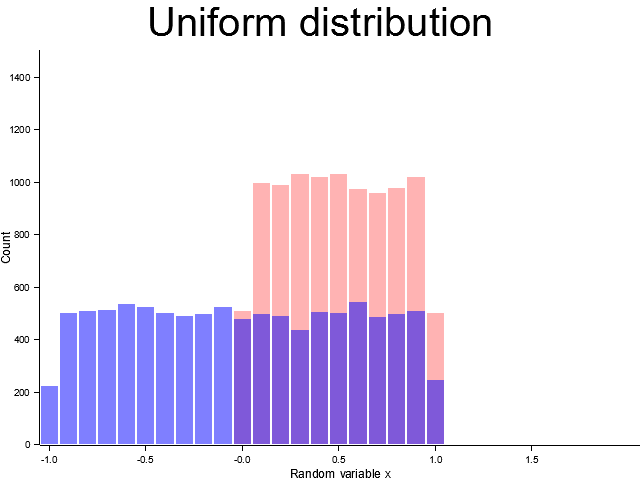
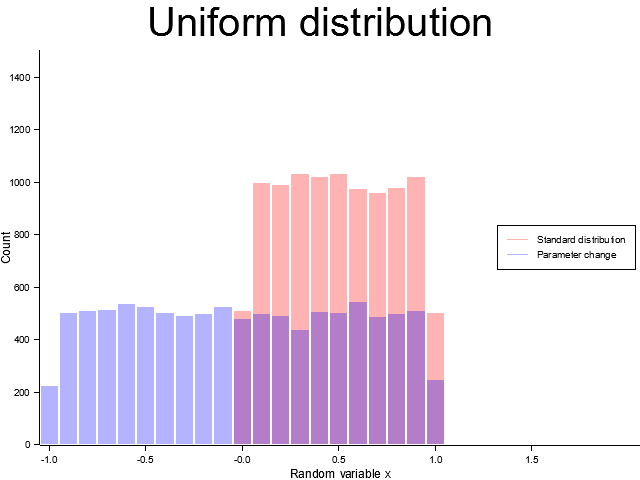
0.2.0d (使用例) 一様分布と正規分布の修正

Changed region(s): [[0.0625, 0.625, 0.7188, 0.9375], [0.7812, 0.4688, 1.0, 0.5625]]

diff --git a/examples/normal.rs b/examples/normal.rs
@@ -35,6 +35,7 @@ fn main() -> Result<(), Box<dyn std::error::Error>> {
     let mut generator = rand_simple::Normal::new([1192u32, 765u32]);
 
     // 標準分布
+    println!("Initial state\n{}\n", generator);
     let mut vec = Vec::<f64>::new();
     for _ in 0..QUANTITY {
         vec.push(generator.sample());
@@ -47,12 +48,15 @@ fn main() -> Result<(), Box<dyn std::error::Error>> {
                 .margin(1)
                 .data(data.iter().map(|x: &f64| (*x, 1))),
         )
-        .unwrap();
+        .unwrap()
+        .label("Standard distribution")
+        .legend(|(x, y)| PathElement::new(vec![(x, y), (x + 20, y)], &RED.mix(0.3)));
 
     // パラメータ変更
     let mean: f64 = -3f64;
     let variance: f64 = 2f64;
     let _: Result<(f64, f64), &str> = generator.try_set_params(mean, variance);
+    println!("Parameter change\n{}", generator);
     let mut vec = Vec::<f64>::new();
     for _ in 0..QUANTITY {
         vec.push(generator.sample());
@@ -61,10 +65,20 @@ fn main() -> Result<(), Box<dyn std::error::Error>> {
     chart
         .draw_series(
             Histogram::vertical(&chart)
-                .style(BLUE.mix(0.5).filled())
+                .style(BLUE.mix(0.3).filled())
                 .margin(1)
                 .data(data.iter().map(|x: &f64| (*x, 1))),
         )
+        .unwrap()
+        .label("Parameter change")
+        .legend(|(x, y)| PathElement::new(vec![(x, y), (x + 20, y)], &BLUE.mix(0.3)));
+
+    // 凡例の描画
+    chart
+        .configure_series_labels()
+        .border_style(&BLACK)
+        .background_style(&WHITE.mix(0.8))
+        .draw()
         .unwrap();
 
     Ok(())

diff --git a/examples/uniform.rs b/examples/uniform.rs
@@ -35,6 +35,7 @@ fn main() -> Result<(), Box<dyn std::error::Error>> {
     let mut generator = rand_simple::Uniform::new(1192_u32);
 
     // 標準分布
+    println!("Initial state\n{}\n", generator);
     let mut vec = Vec::<f64>::new();
     for _ in 0..QUANTITY {
         vec.push(generator.sample());
@@ -47,12 +48,15 @@ fn main() -> Result<(), Box<dyn std::error::Error>> {
                 .margin(1)
                 .data(data.iter().map(|x: &f64| (*x, 1))),
         )
-        .unwrap();
+        .unwrap()
+        .label("Standard distribution")
+        .legend(|(x, y)| PathElement::new(vec![(x, y), (x + 20, y)], &RED.mix(0.3)));
 
     // パラメータ変更
     let min: f64 = -1_f64;
     let max: f64 = 1_f64;
     let _: Result<(f64, f64), &str> = generator.try_set_params(min, max);
+    println!("Parameter change\n{}", generator);
     let mut vec = Vec::<f64>::new();
     for _ in 0..QUANTITY {
         vec.push(generator.sample());
@@ -61,10 +65,20 @@ fn main() -> Result<(), Box<dyn std::error::Error>> {
     chart
         .draw_series(
             Histogram::vertical(&chart)
-                .style(BLUE.mix(0.5).filled())
+                .style(BLUE.mix(0.3).filled())
                 .margin(1)
                 .data(data.iter().map(|x: &f64| (*x, 1))),
         )
+        .unwrap()
+        .label("Parameter change")
+        .legend(|(x, y)| PathElement::new(vec![(x, y), (x + 20, y)], &BLUE.mix(0.3)));
+
+    // 凡例の描画
+    chart
+        .configure_series_labels()
+        .border_style(&BLACK)
+        .background_style(&WHITE.mix(0.8))
+        .draw()
         .unwrap();
 
     Ok(())

diff --git a/src/lib.rs b/src/lib.rs
@@ -66,12 +66,12 @@ pub(crate) use adjust_seeds;
 /// 一様乱数
 /// # 使用例
 /// ```
-/// let mut uniform = rand_simple::Uniform::new(1192u32);
+/// let mut uniform = rand_simple::Uniform::new(1192_u32);
 /// println!("閉区間[0, 1]の一様乱数に従う乱数を返す -> {}", uniform.sample());
 ///
 /// // 確率変数のパラメータを変更する
-/// let min: f64 = -1f64;
-/// let max: f64 = 1f64;
+/// let min: f64 = -1_f64;
+/// let max: f64 = 1_f64;
 /// let result: Result<(f64, f64), &str> = uniform.try_set_params(min, max);
 /// println!("閉区間[{}, {}]の一様乱数に従う乱数を返す -> {}", min, max, uniform.sample());
 /// ```
@@ -84,12 +84,12 @@ pub struct Uniform {
 /// 正規分布
 /// # 使用例
 /// ```
-/// let mut normal = rand_simple::Normal::new([1192u32, 765u32]);
+/// let mut normal = rand_simple::Normal::new([1192_u32, 765_u32]);
 /// println!("平均値 μ = 0, 分散 σ^2 = 1 の標準正規分布乱数を生成する -> {}", normal.sample());
 ///
 /// // 確率変数のパラメータを変更する場合
-/// let mean: f64 = -3f64;
-/// let variance: f64 = 2f64;
+/// let mean: f64 = -3_f64;
+/// let variance: f64 = 2_f64;
 /// let result: Result<(f64, f64), &str> = normal.try_set_params(mean, variance);
 /// println!("平均値 μ = {}, 分散 σ^2 = {} の正規分布乱数を生成する -> {}", mean, variance, normal.sample());
 /// ```
